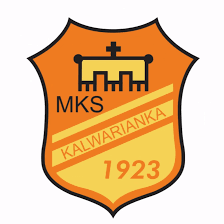
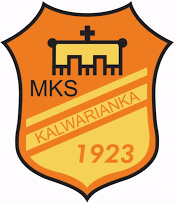
update

diff --git a/src/components/featuredGames/featuredGames.js b/src/components/featuredGames/featuredGames.js
@@ -1,7 +1,7 @@
 import React from 'react'
 import styled from 'styled-components';
 import { GatsbyImage, getImage } from 'gatsby-plugin-image';
-import Img from 'gatsby-image';
+
 const Card = styled.div`
     background-color: white;
     border-radius: 7px;
@@ -36,17 +36,16 @@ const LeagueName = styled.span`
 `
 const TeamsSection = styled.div`
     display:grid;
-    grid-template-columns: 3fr 1fr 1fr 1fr 3fr;
+    align-items: center;
+    justify-content: center;
+    grid-template-columns: 4fr 1fr 1fr 1fr 4fr;
+ 
 `
 const Name = styled.span`
     padding:0.5rem;
     text-transform: uppercase;
     font-weight: bolder;
     font-size: 1.3rem;
-`
-const TeamLogo = styled.img`
-    height: 55px;
-    width: auto;
 `
 const GameInfoSection = styled.div`
     display: flex;
@@ -71,15 +70,21 @@ const DividerSm = styled.div`
     height: 20px;
     width: 0;
 `
+const ImageContainer = styled.div`
+    width:100%;
+    display:flex;
+    align-items: center;
+`
 
 
 
 const FeaturedGames = ({ gameData }) => {
-    const { homeN, resultN, awayN, dateN, timeN, placeN, homeP, resultP, awayP, dateP, timeP, placeP, leagueN, leagueP } = gameData;
+    const { homeN, resultN, awayN, timeN, dateN, placeN, homeP, resultP, awayP, dateP, timeP, placeP, leagueN, leagueP } = gameData;
     const homeLogoN = getImage(gameData.homeLogoN);
     const awayLogoN = getImage(gameData.awayLogoN);
     const homeLogoP = getImage(gameData.homeLogoP);
     const awayLogoP = getImage(gameData.awayLogoP);
+    console.log(typeof (dateN))
     console.log('featuredGames');
     console.log(homeLogoN);
     return (
@@ -89,10 +94,11 @@ const FeaturedGames = ({ gameData }) => {
                 <LeagueName>{leagueN}</LeagueName>
                 <TeamsSection>
                     <Name>{homeN}</Name>
-
-                    <GatsbyImage image={homeLogoN} alt="logo" />
+                    <ImageContainer>
+                        <GatsbyImage image={homeLogoN} alt="logo" object-fit='scale-down' />
+                    </ImageContainer>
                     <Name>{resultN}</Name>
-                    <GatsbyImage image={awayLogoN} alt="logo" />
+                    <GatsbyImage image={awayLogoN} alt="logo" object-fit='scale-down' />
                     <Name>{awayN}</Name>
 
 
@@ -111,7 +117,7 @@ const FeaturedGames = ({ gameData }) => {
                 <LeagueName>{leagueP}</LeagueName>
                 <TeamsSection>
                     <Name>{homeP}</Name>
-                    <GatsbyImage image={homeLogoP} alt="logo" />
+                    <GatsbyImage image={homeLogoP} alt="logo" object-fit='scale-down' />
                     <Name>{resultP}</Name>
                     <GatsbyImage image={awayLogoP} alt="logo" />
                     <Name>{awayP}</Name>

diff --git a/src/pages/index.js b/src/pages/index.js
@@ -39,22 +39,22 @@ query featuredGames {
       frontmatter {
         awayLogoN {
           childImageSharp {
-            gatsbyImageData(width: 55, placeholder: BLURRED, formats: AUTO)
+            gatsbyImageData(width: 50, placeholder: BLURRED, formats: AUTO, layout: FIXED)
           }
         }
         awayLogoP {
           childImageSharp {
-            gatsbyImageData(width: 55, placeholder: BLURRED, formats: AUTO)
+            gatsbyImageData(width: 50, placeholder: BLURRED, formats: AUTO, layout: FIXED)
           }
         }
         homeLogoN {
           childImageSharp {
-            gatsbyImageData(width: 55, placeholder: BLURRED, formats: AUTO)
+            gatsbyImageData(width: 50, placeholder: BLURRED, formats: AUTO, layout: FIXED)
           }
         }
         homeLogoP {
           childImageSharp {
-            gatsbyImageData(width: 55, placeholder: BLURRED, formats: AUTO)
+            gatsbyImageData(width: 50, placeholder: BLURRED, formats: AUTO, layout: FIXED)
           }
         }
         homeN

diff --git a/gatsby-node.js b/gatsby-node.js
@@ -5,3 +5,17 @@
  */
 
 // You can delete this file if you're not using it
+
+exports.createSchemaCustomization = ({ actions }) => {
+    actions.createTypes(`
+        type MarkdownRemark implements Node @infer{
+            frontmatter: MarkdownRemarkFrontmatter
+        }
+        type MarkdownRemarkFrontmatter @infer{
+            timeN: String,
+            resultN: String,
+            resultP: String,
+        }
+    `)
+
+}

diff --git a/content/featuredGames/featuredGames.md b/content/featuredGames/featuredGames.md
@@ -5,16 +5,16 @@ resultN: VS
 awayLogoN: src/images/kalwarianka.png
 awayN: Kalwarianka II
 leagueN: Puchar Polski
-dateN: "'25.07.2021'"
-timeN: "'17:00'"
+dateN: '25.07.2021'
+timeN: '17:00'
 placeN: Boisko Sosnowianki
 homeP: Sownowianka
-homeLogoP: src/images/niwa.png
-resultP: "'1:7'"
+homeLogoP: src/images/sosnowiankaLogo.png
+resultP: '1:7'
 awayLogoP: src/images/osiek.jpg
 awayP: Brzezina Osiek
 leagueP: Klasa Okręgowa
-dateP: 2021-06-30
-timeP: 18:00
+dateP: '2021-06-30'
+timeP: '18:00'
 placeP: Boisko Sosnowianki
 ---
